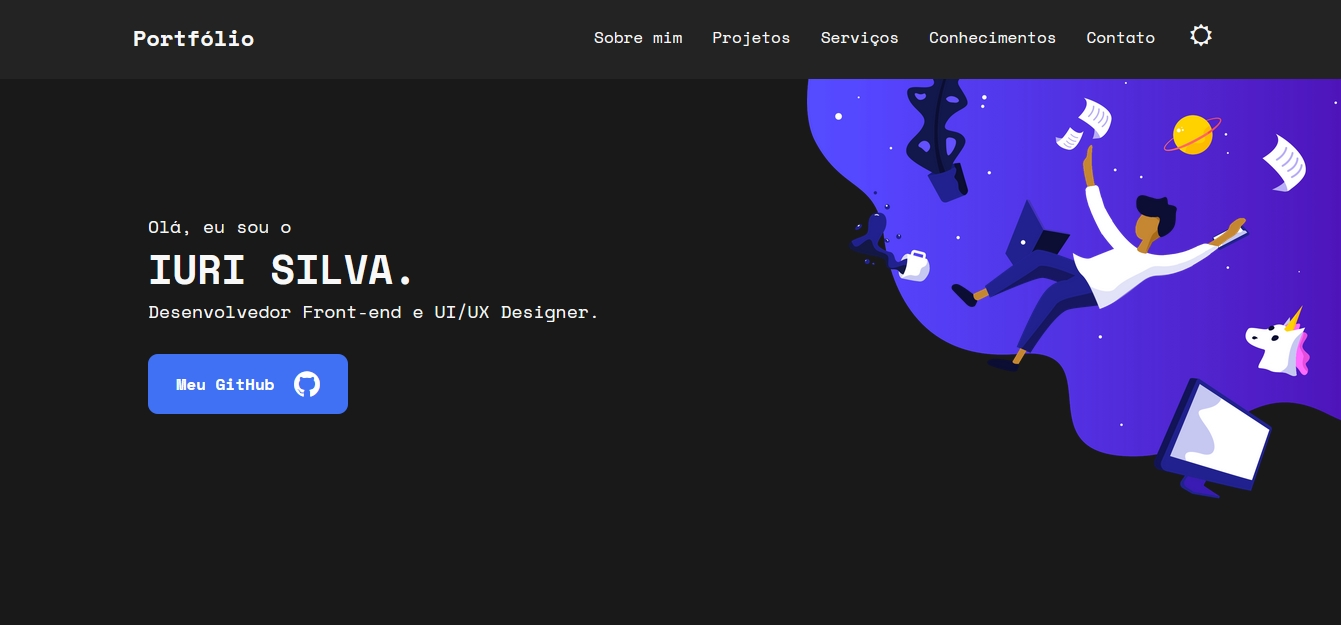
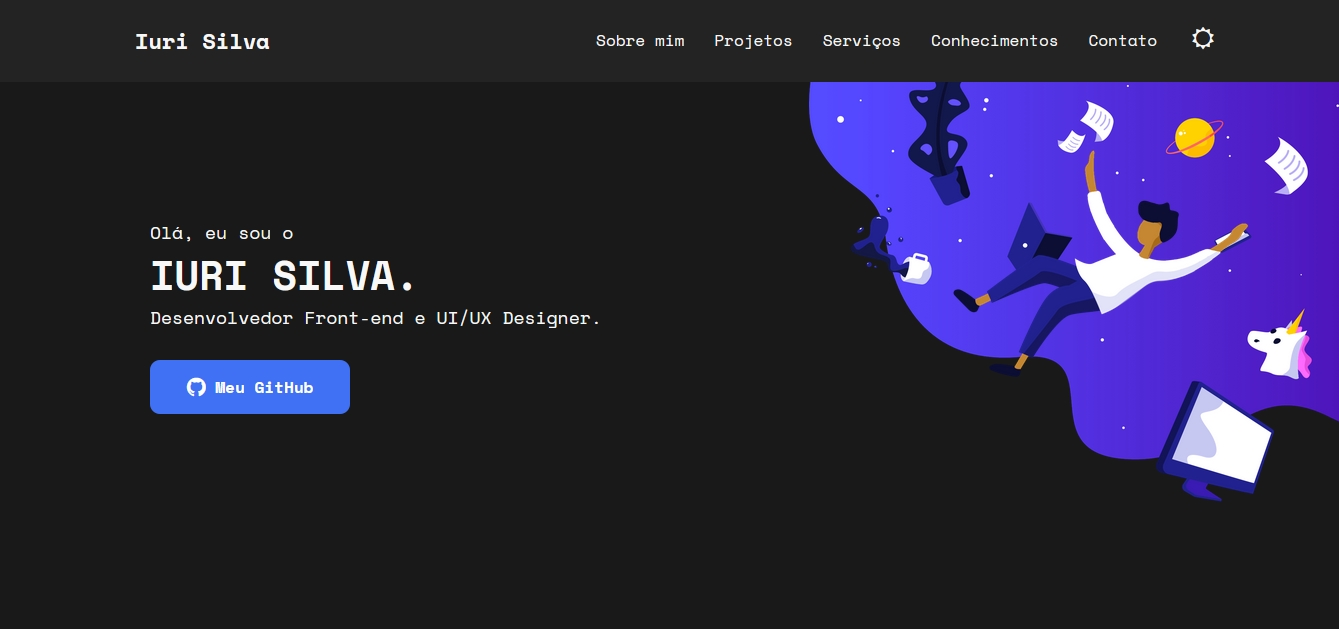
:art: atualizando portfolio

diff --git a/index.html b/index.html
@@ -23,7 +23,7 @@
   <!--Header-->
   <header>
     <a href="#">
-      <h1 class="logo">Portfólio</h1>
+      <h1 class="logo">Iuri Silva</h1>
     </a>
     <div class="btn-menu"><i class="fa fa-bars"></i></div>
     <!--Menu-->
@@ -77,9 +77,9 @@
         </article>
         <article id="sobreTexto">
           <h3>Sobre mim</h3>
-          <p>Meu nome é Iuri Silva, tenho 20 anos, moro no Brasil, especificamente em Guarantã-SP. Atualmente estou
+          <p>Meu nome é Iuri, tenho 20 anos, moro no Brasil, especificamente em Guarantã-SP. Atualmente estou
             estudando em uma universidade e em um curso técnico. Também tenho estudado bastante sozinho para aprender
-            novas tecnologias, como Vue.JS.</p>
+            novas tecnologias, como ReactJS.</p>
 
           <p>Iniciei como Desenvolvedor Front End em 2018. Desde então venho dedicando cerca de 8hrs por dia aos
             estudos. Vejo que estou no caminho certo pois, amo ajudar as pessoas que estão iniciando, assim como eu já
@@ -109,8 +109,16 @@
         </div>
 
         <div>
-          <h3>Em breve</h3>
-          <p>Projeto em construção.</p>
+          <h3>API League of Legends</h3>
+          <p>🏹 API que busca as informações da sua conta, apenas pelo seu nome.</p>
+          <span class="botoes-projetos">
+            <a href="https://api-lol.netlify.app/" target="_blank">
+              <button class="aovivo-button"><i class="fa fa-link"></i> website</button>
+            </a>
+            <a href="https://github.com/iuricode/api-lol" target="_blank">
+              <button class="aovivo-button"><i class="fa fa-github"></i> github</button>
+            </a>
+          </span>
         </div>
 
         <div>
@@ -207,7 +215,7 @@
           <img src="assets/image/logoHTMLeCSS.png" alt="Logo do HTML e CSS" class="imageIcones" />
           <h2>HTML e CSS</h2>
           <p>2 anos de experiência</p>
-          <div class="estrelaConhecimento"><span style="width:100%" class="nivelConhecimento"></span>
+          <div class="estrelaConhecimento"><span style="width:90%" class="nivelConhecimento"></span>
           </div>
         </article>
 
@@ -215,21 +223,21 @@
           <img src="assets/image/logoJS.png" alt="Logo do JavaScript" class="imageIcone" />
           <h2>JavaScript</h2>
           <p>3 meses de experiência</p>
-          <div class="estrelaConhecimento"><span style="width:40%" class="nivelConhecimento"></span></div>
+          <div class="estrelaConhecimento"><span style="width:50%" class="nivelConhecimento"></span></div>
         </article>
 
         <article class="sasseless">
-          <img src="assets/image/logoSass.png" alt="Logo do Sass e Less" class="imageIcones" />
-          <h2>Sass e Less</h2>
+          <img src="assets/image/logoSass.png" alt="Logo do Sass e Less" class="imageIcone" />
+          <h2>Sass</h2>
           <p>5 meses de experiência</p>
-          <div class="estrelaConhecimento"><span style="width:70%" class="nivelConhecimento"></span></div>
+          <div class="estrelaConhecimento"><span style="width:80%" class="nivelConhecimento"></span></div>
         </article>
 
         <article class="bootstrap">
           <img src="assets/image/logoBootstrap.png" alt="Logo do Bootstrap" class="imageIcone" />
           <h2>Bootstrap</h2>
           <p>1 ano de experiência</p>
-          <div class="estrelaConhecimento"><span style="width:70%" class="nivelConhecimento"></span></div>
+          <div class="estrelaConhecimento"><span style="width:80%" class="nivelConhecimento"></span></div>
         </article>
 
         <article class="materialize">
@@ -254,8 +262,8 @@
         </article>
 
         <article class="vue">
-          <img src="assets/image/logoVue.png" alt="Logo do Vue.js" class="imageIcone" />
-          <h2>Vue.js</h2>
+          <img src="assets/image/logoReactJS.png" alt="Logo do Vue.js" class="imageIcone" />
+          <h2>ReactJS</h2>
           <p>1 mês de experiência</p>
           <div class="estrelaConhecimento"><span style="width:10%" class="nivelConhecimento"></span></div>
         </article>
